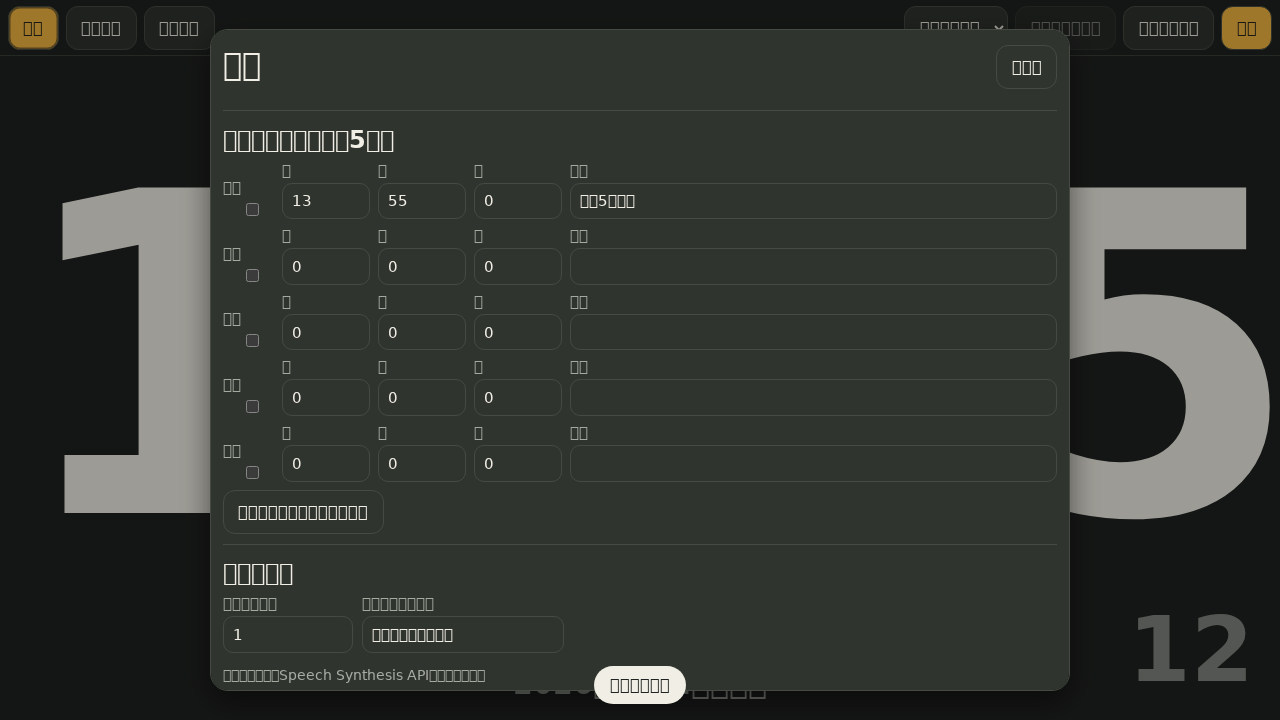
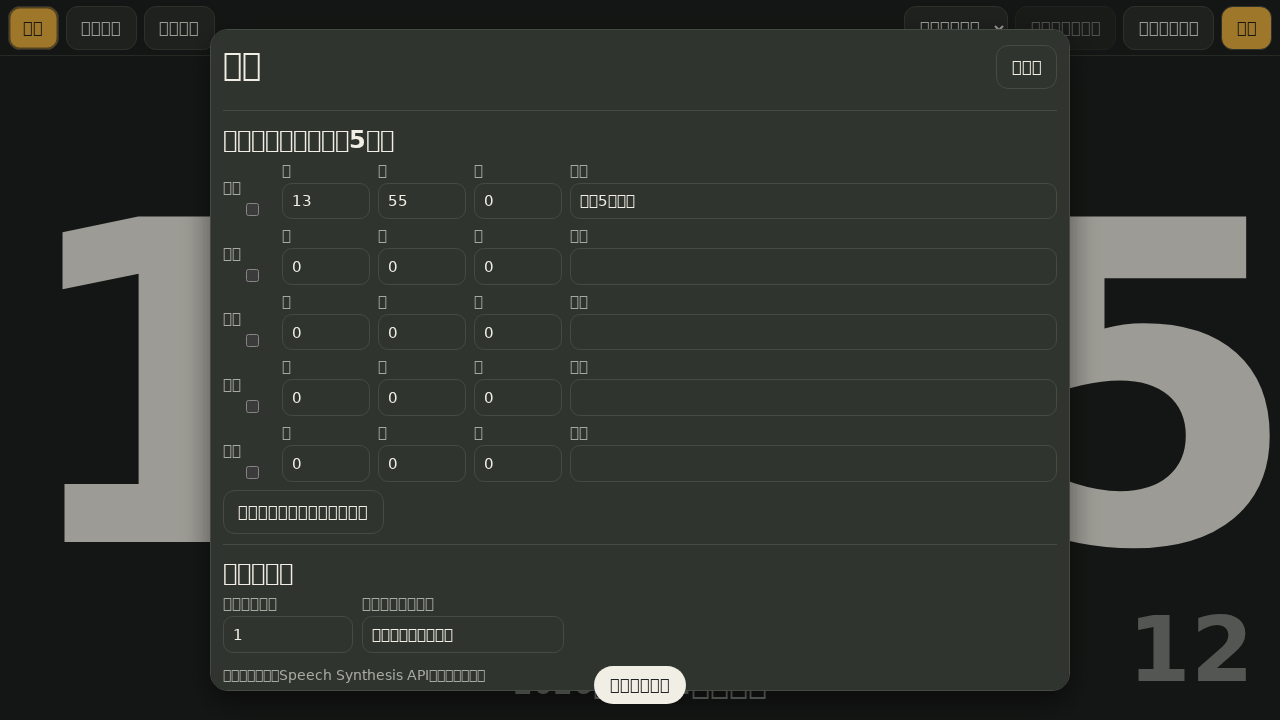
レビュー対応：ドット文字の削除・MIT許諾文言の同梱・名称の統一（標示板）

diff --git a/iclock.html b/iclock.html
@@ -4,6 +4,32 @@
   <meta charset="utf-8">
   <meta name="viewport" content="width=device-width, initial-scale=1">
   <title>iClock - ローカル時計・タイマー・予定時刻</title>
+  <!--
+    「標示板テーマ」の配色・スタイルは design-skills v0.1.0 (https://github.com/YanTKYS/design-skills)
+    の Skill「l-signage-ui」（assets/tokens.css）を取り込んだものです。
+
+    MIT License
+
+    Copyright (c) 2026 YanTKYS
+
+    Permission is hereby granted, free of charge, to any person obtaining a copy
+    of this software and associated documentation files (the "Software"), to deal
+    in the Software without restriction, including without limitation the rights
+    to use, copy, modify, merge, publish, distribute, sublicense, and/or sell
+    copies of the Software, and to permit persons to whom the Software is
+    furnished to do so, subject to the following conditions:
+
+    The above copyright notice and this permission notice shall be included in all
+    copies or substantial portions of the Software.
+
+    THE SOFTWARE IS PROVIDED "AS IS", WITHOUT WARRANTY OF ANY KIND, EXPRESS OR
+    IMPLIED, INCLUDING BUT NOT LIMITED TO THE WARRANTIES OF MERCHANTABILITY,
+    FITNESS FOR A PARTICULAR PURPOSE AND NONINFRINGEMENT. IN NO EVENT SHALL THE
+    AUTHORS OR COPYRIGHT HOLDERS BE LIABLE FOR ANY CLAIM, DAMAGES OR OTHER
+    LIABILITY, WHETHER IN AN ACTION OF CONTRACT, TORT OR OTHERWISE, ARISING FROM,
+    OUT OF OR IN CONNECTION WITH THE SOFTWARE OR THE USE OR OTHER DEALINGS IN THE
+    SOFTWARE.
+  -->
   <style>
     :root {
       --bg: #f8fafc;
@@ -556,44 +582,7 @@
       outline-offset: 2px;
     }
 
-    .sig-dots {
-      display: none;
-    }
-
-    :root[data-design="signage"] .sig-dots {
-      display: block;
-      margin-top: 1.2rem;
-      text-align: center;
-    }
-
-    :root[data-design="signage"] .sig-dots .l-dots {
-      height: 34px;
-      width: calc(var(--w) * 34px / 7);
-    }
-
-    :root[data-design="signage"] .l-dots .on {
-      fill: var(--ls-dot);
-    }
-
-    :root[data-design="signage"] .l-dots .off {
-      fill: var(--ls-dot);
-      opacity: var(--ls-dot-off);
-    }
-
     @media (forced-colors: active) {
-      :root[data-design="signage"] .l-dots {
-        forced-color-adjust: none;
-      }
-
-      :root[data-design="signage"] .l-dots .on {
-        fill: CanvasText;
-      }
-
-      :root[data-design="signage"] .l-dots .off {
-        fill: CanvasText;
-        opacity: .12;
-      }
-
       :root[data-design="signage"] button.primary,
       :root[data-design="signage"] .tab[aria-selected="true"],
       :root[data-design="signage"] .badge.status.is-running {
@@ -614,7 +603,7 @@
         <div class="design-picker">
           <select id="designSelect" aria-label="デザインテーマ">
             <option value="standard">標準テーマ</option>
-            <option value="signage">標識板テーマ</option>
+            <option value="signage">標示板テーマ</option>
           </select>
         </div>
         <button id="themeBtn">テーマ切替</button>
@@ -629,7 +618,6 @@
           <div class="clock-face">
             <div id="clockTime" class="main-time">00:00</div>
           </div>
-          <div id="clockSigDots" class="sig-dots" aria-hidden="true"></div>
           <div id="clockSeconds" class="clock-seconds">00</div>
           <div class="clock-meta bottom-meta">
             <span id="clockDate" class="sub"></span>
@@ -640,7 +628,6 @@
       <section id="timerMode" class="mode">
         <div class="hero">
           <div id="timerTime" class="main-time">10:00</div>
-          <div id="timerSigDots" class="sig-dots" aria-hidden="true"></div>
           <div class="timer-meta bottom-meta">
             <div>
               <span id="timerStatus" class="badge status">停止中</span>
@@ -661,7 +648,6 @@
             <span id="agendaDeltaLabel" class="agenda-delta-label" aria-live="polite">あと</span>
             <span id="agendaDeltaValue" class="agenda-delta-value">00:00</span>
           </div>
-          <div id="agendaSigDots" class="sig-dots" aria-hidden="true" hidden></div>
           <div id="agendaTime" class="sub"></div>
           <div id="agendaTitle" class="agenda-title">設定から予定を追加してください</div>
         </div>
@@ -940,45 +926,6 @@
         return String(number).padStart(2, '0');
       }
 
-      // 標識板テーマ用の5×7ドット文字。design-skills v0.1.0（l-signage-ui）の assets/dot-digits.js から取り込み。
-      // MIT License, Copyright (c) 2026 YanTKYS。ライセンス文言は Skill 同梱の LICENSE に従う。
-      // SVG は aria-hidden の装飾で、同じ数値は読める文字として別途 1 回だけ置く
-      function dotDigits(value, options) {
-        const opts = options || {};
-        const width = Math.max(1, opts.width == null ? 2 : opts.width);
-        const cls = String(opts.className || 'l-dots').replace(/[^\w -]/g, '');
-        const glyphs = {
-          0: ['01110', '11011', '11011', '11011', '11011', '11011', '01110'],
-          1: ['00110', '01110', '00110', '00110', '00110', '00110', '01111'],
-          2: ['01110', '11011', '00011', '00110', '01100', '11000', '11111'],
-          3: ['01110', '11011', '00011', '00110', '00011', '11011', '01110'],
-          4: ['00011', '00111', '01011', '11011', '11111', '00011', '00011'],
-          5: ['11111', '11000', '11110', '00011', '00011', '11011', '01110'],
-          6: ['00110', '01100', '11000', '11110', '11011', '11011', '01110'],
-          7: ['11111', '00011', '00110', '00110', '01100', '01100', '01100'],
-          8: ['01110', '11011', '11011', '01110', '11011', '11011', '01110'],
-          9: ['01110', '11011', '11011', '01111', '00011', '00110', '01100'],
-          ' ': ['00000', '00000', '00000', '00000', '00000', '00000', '00000'],
-        };
-        const chars = String(value).split('');
-        while (chars.length < width) chars.unshift(' ');
-
-        let x = 0;
-        const circles = [];
-        chars.forEach((char) => {
-          const glyph = glyphs[char] || glyphs[' '];
-          glyph.forEach((row, y) => {
-            row.split('').forEach((on, i) => {
-              circles.push(`<circle cx="${x + i + 0.5}" cy="${y + 0.5}" r="0.38" class="${on === '1' ? 'on' : 'off'}"/>`);
-            });
-          });
-          x += glyph[0].length + 1;
-        });
-
-        const w = Math.max(1, x - 1);
-        return `<svg class="${cls}" viewBox="0 0 ${w} 7" style="--w:${w}" aria-hidden="true" focusable="false">${circles.join('')}</svg>`;
-      }
-
       function formatClock(date) {
         return `${pad(date.getHours())}:${pad(date.getMinutes())}`;
       }
@@ -1034,7 +981,7 @@
         applyDesign();
       }
 
-      // デザインの選択は配色（auto/light/dark）と区別する。標識板テーマは暗色固定で、
+      // デザインの選択は配色（auto/light/dark）と区別する。標示板テーマは暗色固定で、
       // 標準テーマの配色切り替えは反映されないため themeBtn を無効化する
       function applyDesign() {
         document.documentElement.dataset.design = state.design;
@@ -1044,7 +991,7 @@
         const themeBtn = $('themeBtn');
         const signage = state.design === 'signage';
         themeBtn.disabled = signage;
-        themeBtn.title = signage ? '標識板テーマでは配色の自動追従・ライト／ダーク切替は反映されません' : '';
+        themeBtn.title = signage ? '標示板テーマでは配色の自動追従・ライト／ダーク切替は反映されません' : '';
         themeBtn.textContent = signage
           ? '配色切替は無効'
           : (document.documentElement.dataset.theme === 'dark' ? 'ライトへ' : 'ダークへ');
@@ -1059,30 +1006,6 @@
         state.design = design;
         saveSettingsToStorage();
         applyDesign();
-        renderSigDots();
-      }
-
-      function isSignageTheme() {
-        return state.design === 'signage';
-      }
-
-      function renderSigDots() {
-        if (!isSignageTheme()) return;
-
-        if (state.mode === 'clock') {
-          setSigDots('clockSigDots', formatClock(getDisplayNow()).replace(':', ''));
-        } else if (state.mode === 'timer') {
-          const digits = formatDuration(remainingSeconds()).replace(/:/g, '');
-          setSigDots('timerSigDots', digits);
-        } else if (state.mode === 'agenda') {
-          const visible = !$('agendaDelta').hidden;
-          $('agendaSigDots').hidden = !visible;
-          if (visible) setSigDots('agendaSigDots', $('agendaDeltaValue').textContent.replace(/:/g, ''));
-        }
-      }
-
-      function setSigDots(id, digits) {
-        $(id).innerHTML = dotDigits(digits, { width: Math.max(2, digits.length) });
       }
 
       function setMode(mode) {
@@ -1182,7 +1105,6 @@
           month: 'long',
           day: 'numeric',
         });
-        renderSigDots();
         resetFiredStateIfDateChanged(now);
 
         // 予約開始は読み上げキューを作り直すため、読み上げ判定より先に処理する

diff --git a/README.md b/README.md
@@ -46,7 +46,7 @@
 
 テーマの初期状態はOS設定に追従し、OS側の切替にもその場で追従します。「テーマ切替」でライト／ダーク固定に変更できます。
 
-画面上部の「デザインテーマ」で「標準テーマ」と「標識板テーマ」を切り替えられます。標識板テーマは暗色固定のデザインで、ライト／ダークの配色切り替えは反映されません（ボタンが無効になります）。標準テーマに戻すと、それまでの配色設定（自動追従／ライト／ダーク）が復元されます。選択したデザインは再読み込み後も保持され、「設定を初期化」で標準テーマに戻ります。
+画面上部の「デザインテーマ」で「標準テーマ」と「標示板テーマ」を切り替えられます。標示板テーマは暗色固定のデザインで、ライト／ダークの配色切り替えは反映されません（ボタンが無効になります）。標準テーマに戻すと、それまでの配色設定（自動追従／ライト／ダーク）が復元されます。選択したデザインは再読み込み後も保持され、「設定を初期化」で標準テーマに戻ります。
 
 設定はこのブラウザの `localStorage` に保存されます。保存対象は、最後のモード、テーマ、デザインテーマ、時計読み上げ、タイマー読み上げ、タイマー残り時間、開始時刻、予定一覧、予定超過表示時間、予定読み上げ、読み上げ済み日付状態、音声速度です。保存値の一部が壊れていても、範囲内へ丸めたうえで他の設定は保持します。「設定を初期化」で保存内容と表示を初期状態へ戻します。
 
